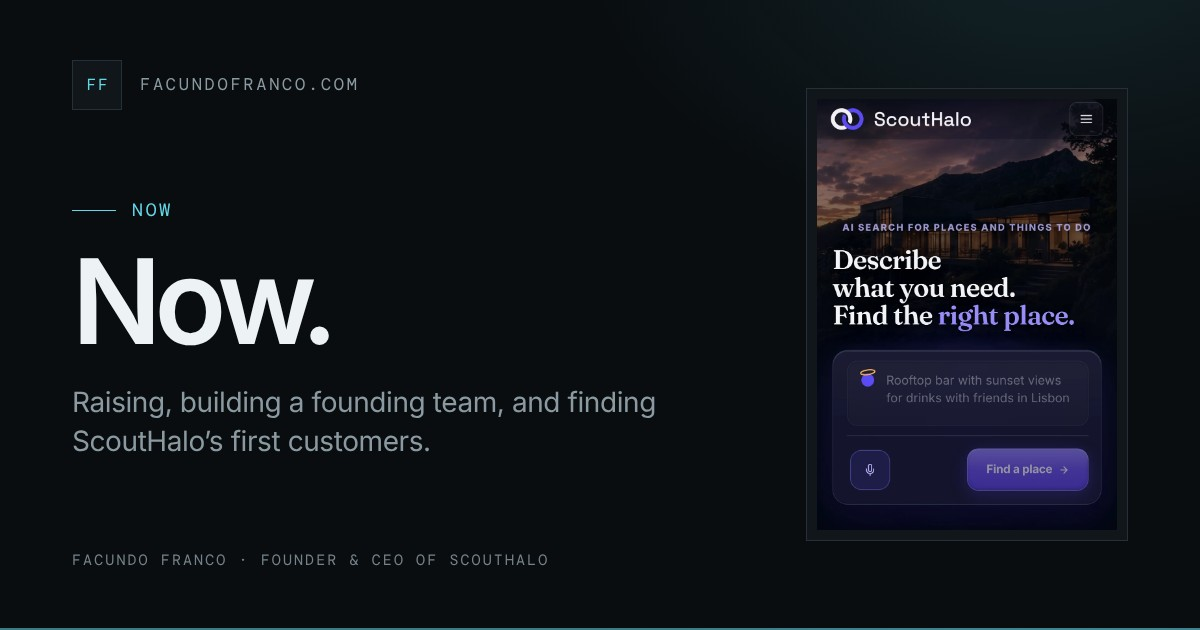
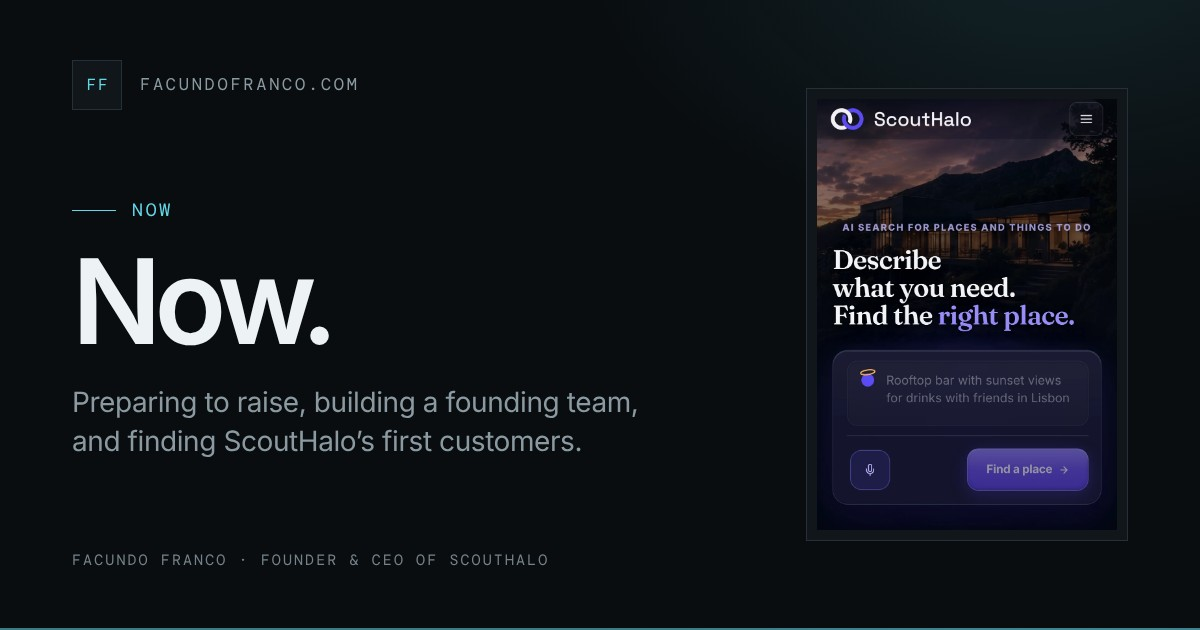
Final pre-deploy copy: preparing to raise, founder-first hero
- Funding wording is now "preparing to raise ScoutHalo's first round"
  on the homepage, /now, contact card, metadata and the /now social card.
- Hero introduces Facundo as a founder first, with ScoutHalo as the
  company he's building full-time.
- Homepage keeps the early stage accurate ("Still early, with its first
  users") without leading with the absence of paying customers; /now and
  the build story keep the full detail.

Claude-Session: https://claude.ai/code/session_01QFbYE4BWmTMKiBHAcWupcf

Changed region(s): [[0.0617, 0.6032, 0.555, 0.7238]]

diff --git a/app/now/page.tsx b/app/now/page.tsx
@@ -8,7 +8,7 @@ import { EMAIL, NOW_UPDATED, SCOUTHALO_URL, mailto } from "@/lib/site";
 export const metadata: Metadata = pageMetadata({
   title: "Now — Facundo Franco",
   description:
-    "What Facundo Franco is focused on now: raising ScoutHalo's first round, building a founding team, improving the product, and finding its first paying customers.",
+    "What Facundo Franco is focused on now: preparing to raise ScoutHalo's first round, building a founding team, improving the product, and finding its first paying customers.",
   path: "/now",
 });
 
@@ -117,10 +117,10 @@ export default function NowPage() {
           </dl>
         </Reveal>
 
-        <Priority id="raising" index="01 · Funding" title="Raising.">
+        <Priority id="raising" index="01 · Funding" title="Preparing to raise.">
           <p>
-            I&apos;m raising ScoutHalo&apos;s first round. Until now it has been built on my own
-            time and my family&apos;s support.
+            I&apos;m preparing to raise ScoutHalo&apos;s first round. Until now it has been built on
+            my own time and my family&apos;s support.
           </p>
           <p>
             Funding is what lets me move faster on the rest of this page: bringing in the first

diff --git a/components/Hero.tsx b/components/Hero.tsx
@@ -21,9 +21,9 @@ export default function Hero() {
           </h1>
 
           <p className="hero-description reveal-load" style={d(80)}>
-            I&apos;m building <strong>ScoutHalo</strong>, AI search for real-world places. You
-            describe what you need; it finds places that fit and tells you why. It&apos;s live,
-            it&apos;s early, and I&apos;m building it full-time from Uruguay.
+            I&apos;m a founder from Uruguay. After years of trying ideas and learning to run a
+            business from the inside, I&apos;m building <strong>ScoutHalo</strong> full-time: AI
+            search that finds real-world places for what you need, and tells you why they fit.
           </p>
 
           <div className="hero-actions reveal-load" style={d(160)}>

diff --git a/components/NowSection.tsx b/components/NowSection.tsx
@@ -4,7 +4,7 @@ import SectionHeader from "./SectionHeader";
 
 // Current priorities in four lines; the detail lives on /now. Plans, not results.
 const PRIORITIES = [
-  { index: "01", label: "Funding", value: "Raising the first round to give ScoutHalo real runway." },
+  { index: "01", label: "Funding", value: "Preparing to raise the first round, to give ScoutHalo real runway." },
   { index: "02", label: "Founding team", value: "Finding exceptional early people who want real ownership." },
   { index: "03", label: "Product", value: "Improving ScoutHalo from how people actually use it." },
   { index: "04", label: "Customers", value: "Finding the first paying customers, and validating that the demand is real." },

diff --git a/components/ContactSection.tsx b/components/ContactSection.tsx
@@ -9,7 +9,7 @@ const AUDIENCES = [
     id: "investors",
     label: "Investors",
     title: "ScoutHalo's first round.",
-    text: "I'm raising to give ScoutHalo the runway to find its customers and build the team. If you invest at this stage, I'd be glad to talk.",
+    text: "I'm preparing to raise ScoutHalo's first round, to give it the runway to find its customers and build the team. If you invest at this stage, I'd be glad to talk.",
     cta: { label: "Email me about investing", href: mailto("Investing in ScoutHalo") },
   },
   {

diff --git a/components/ShowcaseSection.tsx b/components/ShowcaseSection.tsx
@@ -92,8 +92,8 @@ export default function ShowcaseSection() {
               <div>
                 <dt>Today</dt>
                 <dd>
-                  Live, with Free and Pro plans and working payments. Still early: a small number
-                  of users, and no paying customers yet.
+                  Live, with Free and Pro plans and working payments. Still early, with its first
+                  users.
                 </dd>
               </div>
               <div>

diff --git a/lib/journey.ts b/lib/journey.ts
@@ -92,7 +92,7 @@ export const JOURNEY: Milestone[] = [
     id: "live",
     when: "Today",
     title: "Live",
-    text: "Free and Pro plans, with working payments. Few users so far, and no paying customers yet.",
+    text: "Free and Pro plans, with working payments. Still early, with its first users.",
     href: "/building-scouthalo#today",
     image: {
       src: "/images/scouthalo-home-mobile-october-2026.webp",
